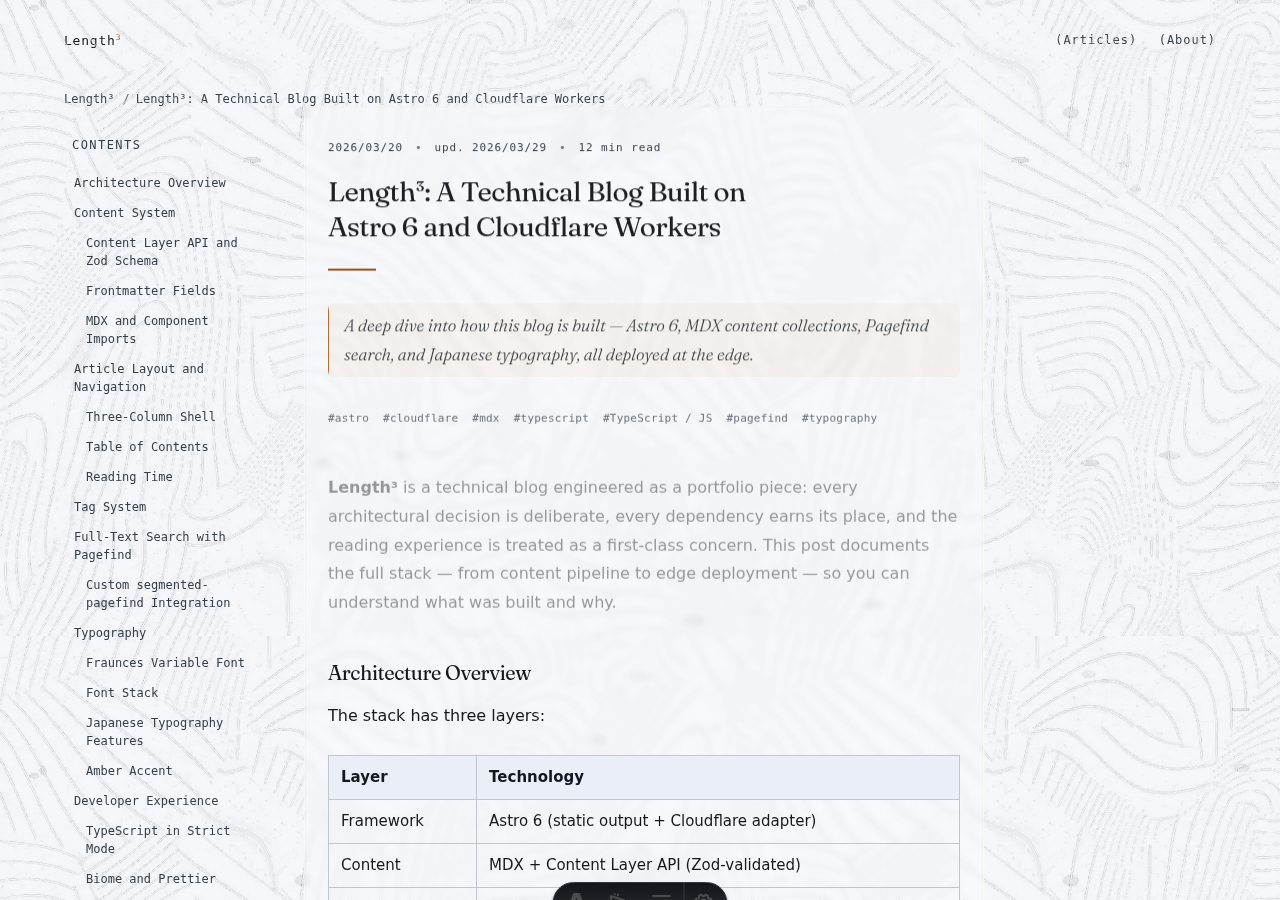
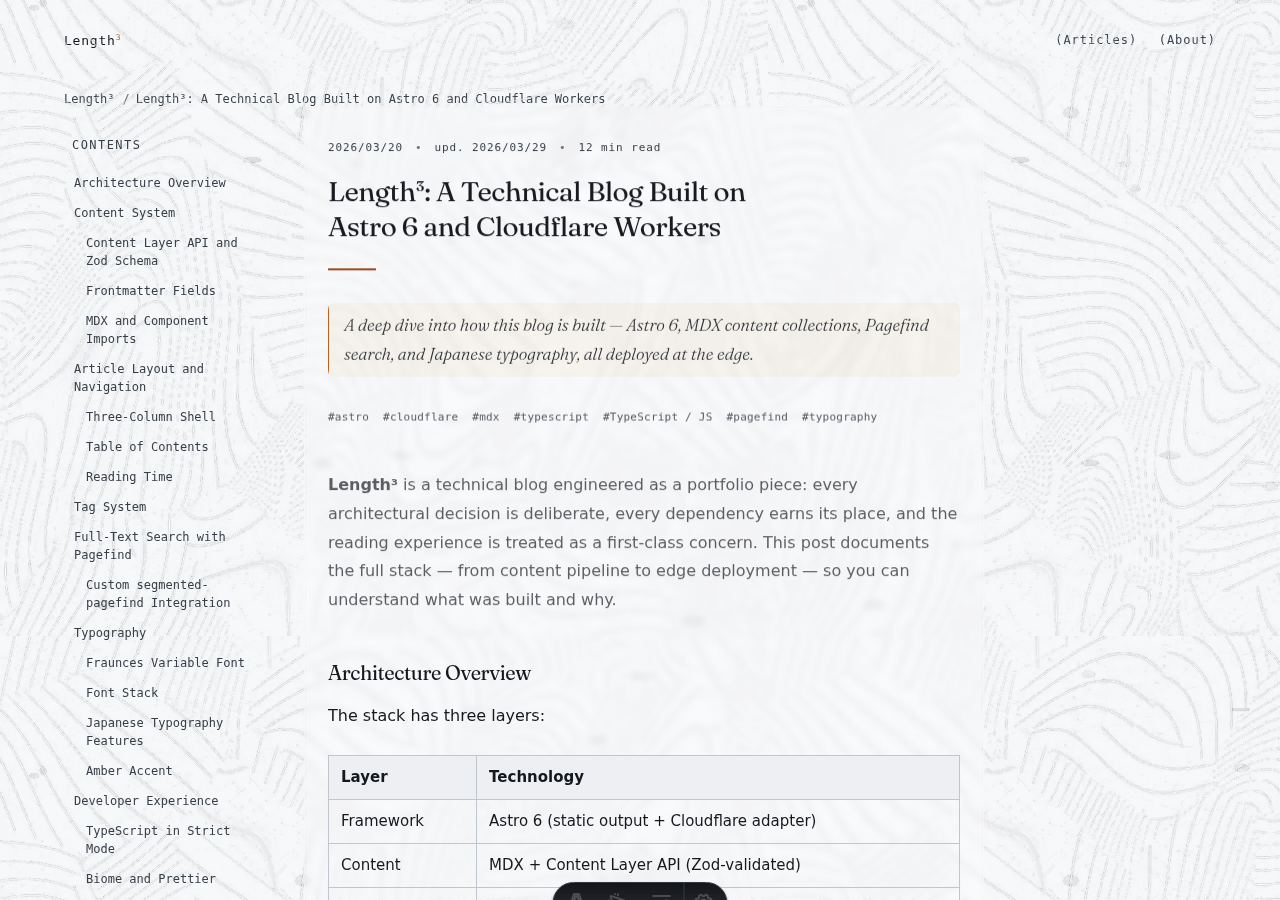
Pull the cool back, and lay the glass flat
Both of yesterday's answers overshot in the same direction: too much of the
thing that fixed the problem.

The paper opened 6 points between red and blue, and BG-2 opened 12. On a
real screen that is not cool paper, it is a blue-grey board — a background
had become a colour you can name. The gap is now 3 and 6: beside the old
warm values the shift still reads, and on its own the page reads as white.
Lightness is untouched again, so the ratios hold to within 0.05 of the
warm-era numbers (Ink 16.6:1, Ink-3 5.2:1, amber-text 4.7:1).

The disc had a drop shadow and a specular rim, and the two of them together
lift it off the page no matter how small the shadow gets — softening it last
round only reduced the height. Both are gone. What is left is the blur, a
flat cool tint, and a hairline edge: three layers, no bevel, no drop. Hue
alone does the separating, which was the point of tinting it in the first
place. Hover deepens the tint and the edge; press adds one inset shadow.
Nothing rises.

Spec records the amount and the two opposite mistakes on either side of it.
Doc screenshots regenerated.

Claude-Session: https://claude.ai/code/session_01RsTrKR3qMscb6YHEoou9G4

diff --git a/src/styles/components/article-card.css b/src/styles/components/article-card.css
@@ -108,25 +108,22 @@
   margin-top: -2rem;
 }
 
-/* ガラス玉。地を塗り潰さず、後ろの等高線と薄れた行を通して見せる。
-   Apple の Liquid Glass が「板」ではなく「玉」に見えるのは、次の 4 枚が
-   同時に乗っているため。ここでもその 4 枚だけを積む:
+/* ガラス。地を塗り潰さず、後ろの等高線と薄れた行を通して見せる。積むのは
+   3 枚だけ:
 
    1. backdrop-filter — 後ろを曇らせ、彩度を上げる（ガラスの厚み）
-   2. 内側の斜め光 — 左上が明るい放射グラデーション（面の反射）
-   3. inset の縁 — 上辺に強い白、下辺に回り込んだ弱い白（鏡面のリム）
-   4. 外側の影 — 紙から浮かせる
+   2. 寒色の tint — 地と反対の色相に置いて、透けたまま輪郭を立てる
+   3. 細い縁 — レンズの周り
 
    SVG の feDisplacementMap による屈折は入れていない。直径 44px では歪みが
    1px 未満で見えないうえ、backdrop-filter: url() が効くのは Chromium だけで、
    他のブラウザでは宣言ごと落ちて曇りまで消える。
 
-   ガラスは白だけで積むと、暖色の紙の上では地と同じ明るさになって輪郭が
-   消える。実機では等高線に紛れて、玉があること自体が見えなかった。
-   そこで色ガラスにする。tint・縁・影を、地と反対側の寒色（色相 212°）で
-   通す。明度ではなく色相で紙から離すので、透けたままはっきり縁が立つ。
-   白のリムは残す — 白は光であって色ではなく、これが無いとガラスは
-   ただの曇った丸になる。 */
+   外の影は無い。強い白のリムも無い。ガラスは白だけで積むと紙と同じ明るさに
+   なって見えなくなり（最初の版）、影と斜めの照りを足すと今度は紙から浮いた
+   ボタンになる（次の版）。どちらも「厚みのある物を描く」向きの手であって、
+   ここで要るのは厚みではなく、紙に伏せて置いた 1 枚のレンズ。上下の照りを
+   落として tint を平らにすると、玉ではなく面になり、地に接する。 */
 .list-more-btn {
   display: inline-flex;
   align-items: center;
@@ -134,36 +131,25 @@
   width: 2.75rem;   /* 44px — spec §8: タップターゲット下限 */
   height: 2.75rem;
   padding: 0;
-  border: 0.0625rem solid var(--surface-border);
+  border: 0.0625rem solid var(--surface-line);
   border-radius: var(--radius-pill);
+  /* 照りは左上に一段だけ、ごく薄く。放射で強く入れると球面になる。 */
   background:
     radial-gradient(
-      124% 124% at 30% 20%,
-      rgba(255, 255, 255, 0.62) 0%,
-      rgba(255, 255, 255, 0.2) 46%,
-      rgba(255, 255, 255, 0.04) 100%
+      130% 130% at 32% 24%,
+      rgba(255, 255, 255, 0.34) 0%,
+      rgba(255, 255, 255, 0.1) 60%,
+      rgba(255, 255, 255, 0) 100%
     ),
-    linear-gradient(
-      160deg,
-      rgba(64, 86, 112, 0.1) 0%,
-      rgba(64, 86, 112, 0.24) 100%
-    );
-  backdrop-filter: blur(0.25rem) saturate(1.7) brightness(1.02);
-  -webkit-backdrop-filter: blur(0.25rem) saturate(1.7) brightness(1.02);
-  /* 外の影は接地のぶんだけ。8px の影を 2px 落とすと玉は紙から数センチ
-     浮いて見え、一覧の上を漂う別の部品になる。ここで要るのは浮遊ではなく
-     厚み — 厚みは内側のリムと翳りが出すので、外は 1px の接地影だけ残す。 */
-  box-shadow:
-    inset 0 0.0625rem 0.0625rem rgba(255, 255, 255, 0.9),
-    inset 0 -0.0625rem 0.125rem rgba(255, 255, 255, 0.5),
-    inset 0 0 0.75rem rgba(37, 52, 71, 0.16),
-    0 0.0625rem 0.1875rem rgba(37, 52, 71, 0.1);
+    rgba(64, 86, 112, 0.12);
+  backdrop-filter: blur(0.25rem) saturate(1.6);
+  -webkit-backdrop-filter: blur(0.25rem) saturate(1.6);
   color: var(--ink);
   cursor: pointer;
   touch-action: manipulation;
   transition:
-    color var(--transition-fast),
     border-color var(--transition-fast),
+    background-color var(--transition-fast),
     box-shadow var(--transition-fast);
 }
 
@@ -174,27 +160,24 @@
   fill: currentcolor;
 }
 
-/* 触れるとガラスが厚くなる。リムが強くなり、翳りが深くなる。持ち上げない
-   — 触れて浮くのは板の挙動で、紙に置いたレンズのそれではない。 */
+/* 触れると濃くなる。持ち上がりも沈みもしない — 動くのは色だけ。 */
 @media (hover: hover) {
   .list-more-btn:hover {
-    color: var(--ink);
-    border-color: var(--surface-separator);
-    box-shadow:
-      inset 0 0.0625rem 0.09375rem rgba(255, 255, 255, 1),
-      inset 0 -0.0625rem 0.1875rem rgba(255, 255, 255, 0.65),
-      inset 0 0 0.875rem rgba(37, 52, 71, 0.22),
-      0 0.0625rem 0.1875rem rgba(37, 52, 71, 0.14);
+    border-color: var(--surface-border);
+    background:
+      radial-gradient(
+        130% 130% at 32% 24%,
+        rgba(255, 255, 255, 0.38) 0%,
+        rgba(255, 255, 255, 0.12) 60%,
+        rgba(255, 255, 255, 0) 100%
+      ),
+      rgba(64, 86, 112, 0.17);
   }
 }
 
-/* 押し込むと逆にへこむ。上辺の強い白を消し、内側の翳りを深くする。 */
+/* 押しているあいだだけ、内側に薄い翳りを入れる。 */
 .list-more-btn:active {
-  color: var(--ink);
-  box-shadow:
-    inset 0 0.0625rem 0.25rem rgba(37, 52, 71, 0.26),
-    inset 0 -0.0625rem 0.0625rem rgba(255, 255, 255, 0.5),
-    0 0.0625rem 0.125rem rgba(37, 52, 71, 0.1);
+  box-shadow: inset 0 0.0625rem 0.1875rem rgba(37, 52, 71, 0.18);
 }
 
 @media (min-width: 40rem) {

diff --git a/src/styles/tokens.css b/src/styles/tokens.css
@@ -25,14 +25,18 @@
   /* 地も寒色へ寄せた。以前は暖色の紙に寒色の字を乗せていたが、広い画面ほど
      地の面積が効いてきて、白がそのまま強く出る。同じ明るさのまま色相だけを
      字と同じ 212° 側へ引くと、面が一段沈んで字と罫が前へ出る。
-     明度は据え置き（--bg は 97.6%、--bg-2 は 93%）なので、規定の
-     コントラスト比はどれも従来の ±0.05 に収まっている。 */
-  --bg: #f5f7fb;    /* 地。テクスチャが乗る面 */
-  --bg-2: #eaeef6;  /* 地の上に置く面（表ヘッダ・モーダルの帯・入力欄・選択行） */
+
+     振り幅は「紙が青い」と言われない手前で止める。一度 R と B の差を 6/12 まで
+     開いたら、実機では紙ではなく青灰の板になった。差は 3（--bg）と 6（--bg-2）
+     — 暖色と並べれば寒色と分かり、単体では白のまま。明度は据え置き
+     （--bg は 97.6%、--bg-2 は 94%）で、規定のコントラスト比はどれも
+     暖色だった頃の ±0.05 に収まっている。 */
+  --bg: #f7f8fa;    /* 地。テクスチャが乗る面 */
+  --bg-2: #edeff3;  /* 地の上に置く面（表ヘッダ・モーダルの帯・入力欄・選択行） */
   --surface-line: rgba(64, 86, 112, 0.4);
   --surface-shine: rgba(255, 255, 255, 0.42);
-  --surface-fill: rgba(234, 238, 246, 0.72);
-  --surface-fill-strong: rgba(234, 238, 246, 0.78);
+  --surface-fill: rgba(237, 239, 243, 0.72);
+  --surface-fill-strong: rgba(237, 239, 243, 0.78);
   --surface-border: rgba(64, 86, 112, 0.52);
   --surface-separator: rgba(44, 52, 62, 0.68);
 
@@ -45,7 +49,7 @@
   --code-fg: #d9d4cb;        /* 地の文字。ここだけ暖色に残して面から浮かせる — 10.2:1 */
   --code-dim: #878f99;       /* コメント。面と同じ寒色に沈める — 4.6:1 */
   --code-glow: rgba(217, 212, 203, 0.22); /* 横スクロールの端に出る明かり */
-  --code-inline-bg: #e6ebf4; /* インラインは行の中の面なので、明るいまま紙の側 */
+  --code-inline-bg: #e9ecf1; /* インラインは行の中の面なので、明るいまま紙の側 */
   --code-inline-edge: rgba(64, 86, 112, 0.18);
 
   /* Surfaces & shadows */

diff --git a/src/config/code-theme.ts b/src/config/code-theme.ts
@@ -1,7 +1,7 @@
 /**
  * Shiki theme for code blocks.
  *
- * ページは寒色に寄せた紙 (--bg #f5f7fb) の上に等高線テクスチャが乗っている。
+ * ページは寒色に寄せた紙 (--bg #f7f8fa) の上に等高線テクスチャが乗っている。
  * その上に描かれるものはすべて寒色（色相 212°）に揃えてあり、コード面は
  * その寒色を字ではなく面の大きさで敷いたもの (#20272f)。
  *

diff --git a/src/styles/layout.css b/src/styles/layout.css
@@ -70,7 +70,7 @@
     linear-gradient(
       180deg,
       rgba(255, 255, 255, 0.26) 0%,
-      rgba(234, 238, 246, 0.26) 100%
+      rgba(237, 239, 243, 0.26) 100%
     );
   border: 0.0625rem solid rgba(255, 255, 255, 0.18);
   box-shadow:

diff --git a/docs/specs/ui-spec.md b/docs/specs/ui-spec.md
@@ -157,7 +157,9 @@ _Where it must not appear:_ Background fills of any kind. Decorative gradients. 
 
 The reason is contrast, not mood. Two colors of equal lightness read as further apart across the wheel than along it, so cooling the marks buys separation from the paper without darkening anything. The luminance formula weights blue least of the three channels, so the shift lowers measured luminance as well: every foreground token gained contrast in the move, none lost any.
 
-The surfaces took two revisions to settle, in both directions. An early one cooled the panels but not the page, which left cold patches inside warm paper — worse than either consistent answer, and the note written at the time concluded that surfaces should stay warm. That conclusion was right about consistency and wrong about which side to be consistent on. On a phone the warm paper reads as paper; on a 27-inch display the same value is a wall of warm white, and warm white at that scale is the one thing in the interface that looks unconsidered. The page moved to the cool side and the panels went with it — **the paper and everything laid on it share one temperature; the accent is the exception** — and the lightness values did not move, so every documented ratio held to within 0.05.
+The surfaces took three revisions to settle. An early one cooled the panels but not the page, which left cold patches inside warm paper — worse than either consistent answer, and the note written at the time concluded that surfaces should stay warm. That conclusion was right about consistency and wrong about which side to be consistent on: on a phone the warm paper reads as paper; on a 27-inch display the same value is a wall of warm white. The page moved to the cool side and the panels went with it — **the paper and everything laid on it share one temperature; the accent is the exception**.
+
+The third revision was about **how far**. The first cool paper opened 6 points between red and blue on BG and 12 on BG-2, and on a real screen that is not cool paper, it is a blue-grey board — the tint had become a colour the reader can name, which is exactly what a background must never be. The amount is now **3 points on BG and 6 on BG-2**: set beside the old warm values the shift is obvious, and on its own the page still reads as white. Lightness never moved in any of the three passes, so every documented ratio has held to within 0.05 throughout.
 
 One deliberate inversion remains: **code foreground** stays warm on the cool slab. Inside a code block the page's relationship is turned over, and that inversion is what makes the block read as a different kind of object rather than a dark rectangle.
 
@@ -175,10 +177,10 @@ Tertiary text: labels, placeholders, lowest-priority information. **5.2:1** agai
 **Rule** `#c0c6ce`
 Rules and dividers only. The contrast against BG is deliberately subtle — a rule should separate without shouting.
 
-**BG** `#f5f7fb`
-Page background. A cool off-white, not pure `#fff`. Reduces glare in extended reading sessions, gives the contour texture something to sit in, and — at 97.6% lightness with the hue pulled to the type's own 212° — stops the largest surface on the page from reading as bare white on a wide display.
+**BG** `#f7f8fa`
+Page background. A cool off-white, not pure `#fff`. Reduces glare in extended reading sessions, gives the contour texture something to sit in, and — at 97.6% lightness with the hue pulled a short way toward the type's own 212° — stops the largest surface on the page from reading as bare white on a wide display without turning it blue.
 
-**BG-2** `#eaeef6`
+**BG-2** `#edeff3`
 Every surface laid over the page: table headers, the search modal's header bar, the search field, the sidebar search trigger, the selected result row. The same temperature as the page — the difference from BG is perceptible but minimal, enough to register as "a different surface" without creating a visual event. Fields are not exempt; what marks a field is its pill radius, its border, and its focus ring, none of which need a temperature change to do their job.
 
 **Code surface** `#20272f`
@@ -190,18 +192,18 @@ Measured, not estimated. Ratios are WCAG 2.x relative luminance, rounded to one 
 
 | Pairing          | Hex values            | Ratio  | WCAG Level    |
 | ---------------- | --------------------- | ------ | ------------- |
-| Ink on BG        | `#15191e` / `#f5f7fb` | 16.5:1 | AAA           |
-| Ink on BG-2      | `#15191e` / `#eaeef6` | 15.2:1 | AAA           |
-| Ink-2 on BG      | `#363e47` / `#f5f7fb` | 10.1:1 | AAA           |
-| Ink-3 on BG      | `#5f6a77` / `#f5f7fb` | 5.1:1  | AA            |
-| Ink-3 on BG-2    | `#5f6a77` / `#eaeef6` | 4.7:1  | AA            |
-| Amber-text on BG | `#b45309` / `#f5f7fb` | 4.7:1  | AA            |
-| Amber on BG      | `#d4820a` / `#f5f7fb` | 2.8:1  | markers only  |
+| Ink on BG        | `#15191e` / `#f7f8fa` | 16.6:1 | AAA           |
+| Ink on BG-2      | `#15191e` / `#edeff3` | 15.3:1 | AAA           |
+| Ink-2 on BG      | `#363e47` / `#f7f8fa` | 10.2:1 | AAA           |
+| Ink-3 on BG      | `#5f6a77` / `#f7f8fa` | 5.2:1  | AA            |
+| Ink-3 on BG-2    | `#5f6a77` / `#edeff3` | 4.8:1  | AA            |
+| Amber-text on BG | `#b45309` / `#f7f8fa` | 4.7:1  | AA            |
+| Amber on BG      | `#d4820a` / `#f7f8fa` | 2.8:1  | markers only  |
 | Code fg on code  | `#d9d4cb` / `#20272f` | 10.2:1 | AAA           |
 | Code dim on code | `#878f99` / `#20272f` | 4.6:1  | AA            |
-| Rule on BG       | `#c0c6ce` / `#f5f7fb` | 1.6:1  | non-text, 1px |
+| Rule on BG       | `#c0c6ce` / `#f7f8fa` | 1.6:1  | non-text, 1px |
 
-Amber-text on BG-2 measures **4.3:1** and does not clear AA. Links inside table headers and selected search rows are the only place that pairing occurs; if either surface grows, the pairing needs a darker amber rather than a lighter panel.
+Amber-text on BG-2 measures **4.4:1** and does not clear AA. Links inside table headers and selected search rows are the only place that pairing occurs; if either surface grows, the pairing needs a darker amber rather than a lighter panel.
 
 ---
 
@@ -264,9 +266,9 @@ The reason is distance, not tidiness. Search and the topic list live below the a
 
 **Glass.** The disc is the one Liquid-Glass-style surface in the interface: a translucent tint over a `backdrop-filter` blur, a specular rim (strong white inset on the top edge, a softer return on the bottom), a faint inner shading for thickness, and a soft drop shadow. It reads as a lens laid on the page — the paper texture stays visible through it, distorted. On press the rim inverts to a recess.
 
-**The glass sits; it does not hover.** The outer shadow is a 3px contact shadow at 10%, and that is the entire drop. An 8px shadow offset 2px lifted the disc a visible distance off the page, which turns a lens laid on the paper into a button floating above the list. Depth is the job of the inset rim and the inner shading; the outer shadow only has to say the disc is touching something. On hover the rim brightens and the inner shading deepens — the glass gets thicker, it does not rise.
+**Flat, not spherical.** Three layers and no more: the `backdrop-filter` blur, a cool tint at 12%, and a hairline edge. There is **no drop shadow and no specular rim** — those are the two cues that read as "raised", and with them the disc stopped being a lens on the page and became a button hovering over the list. Softening the shadow was not enough; the bevel does as much of the lifting as the shadow does. Both are gone, and what is left touches the paper.
 
-**The glass is tinted cool.** Built from white alone it was the same brightness as the paper it sat on, and on a phone it disappeared into the contour lines: the control was there, and could not be seen. Tint, edge, and shadow are therefore all taken to the cool hue (212°) — the disc separates from the page by being on the far side of the wheel from it, not by being darker. The white rim stays, because white here is light rather than colour; without it the lens is only a clouded circle. The dots go to Ink. This is not the temperature rule breaking: the rule says the thing being _read_ is cool, and it is the disc's rim and tint being read against warm paper, not a surface being read on. Where `prefers-reduced-transparency` removes the blur, the tint alone would leave a circle the brightness of the page, so the disc falls back to the BG-2 surface token and keeps its cool edge.
+Getting there took the two opposite mistakes. Built from white alone the disc was the same brightness as the paper and vanished into the contour lines — present and invisible. Answering that with a shadow and a diagonal sheen made it visible and floating. The thing that actually separates it is **hue**: the tint sits on the cool side of the paper it lies on, so the edge stands without the disc having to be darker or higher. On hover the tint and edge deepen; nothing rises and nothing sinks. On press, a single inset shadow. Where `prefers-reduced-transparency` removes the blur, the tint alone would leave a circle the brightness of the page, so the disc falls back to the BG-2 surface token and keeps its cool edge.
 
 This does not contradict the search overlay's ban on `backdrop-filter` (below). That ban is about a **surface the reader reads through**; the disc is a **control the reader looks at**. Blur that dims a page of text serves the interface; blur that gives a 44px control physical depth serves the reader's understanding of what it is.
 
@@ -302,7 +304,7 @@ Located in the left column. `position: sticky; top: 32px`.
 
 ### Code Blocks
 
-**Inline code:** `--code-inline-bg` (`#e6ebf4`) background, `border-radius: var(--radius-sm)`, `padding: 1px 5px`, JetBrains Mono 0.88em, Ink. No border — inline code sits inside a running line, and a drawn box on every occurrence turns a Japanese paragraph into a string of rectangles. The tint alone marks it, and a 1px inset shadow gives the tint an edge without a stroke.
+**Inline code:** `--code-inline-bg` (`#e9ecf1`) background, `border-radius: var(--radius-sm)`, `padding: 1px 5px`, JetBrains Mono 0.88em, Ink. No border — inline code sits inside a running line, and a drawn box on every occurrence turns a Japanese paragraph into a string of rectangles. The tint alone marks it, and a 1px inset shadow gives the tint an edge without a stroke.
 
 **Block code:** `--code-bg` (`#20272f`) background — a dark gray carrying blue, not black. `border: 1px solid --code-edge`, `border-left: 2px solid #e8a030` (amber-lt), `border-radius: var(--radius-lg)`, `padding: 20px`. JetBrains Mono 0.8125rem, `--code-fg` (`#d9d4cb`) — kept warm so the text sits off the cool ground — `line-height: 1.65`.
 
